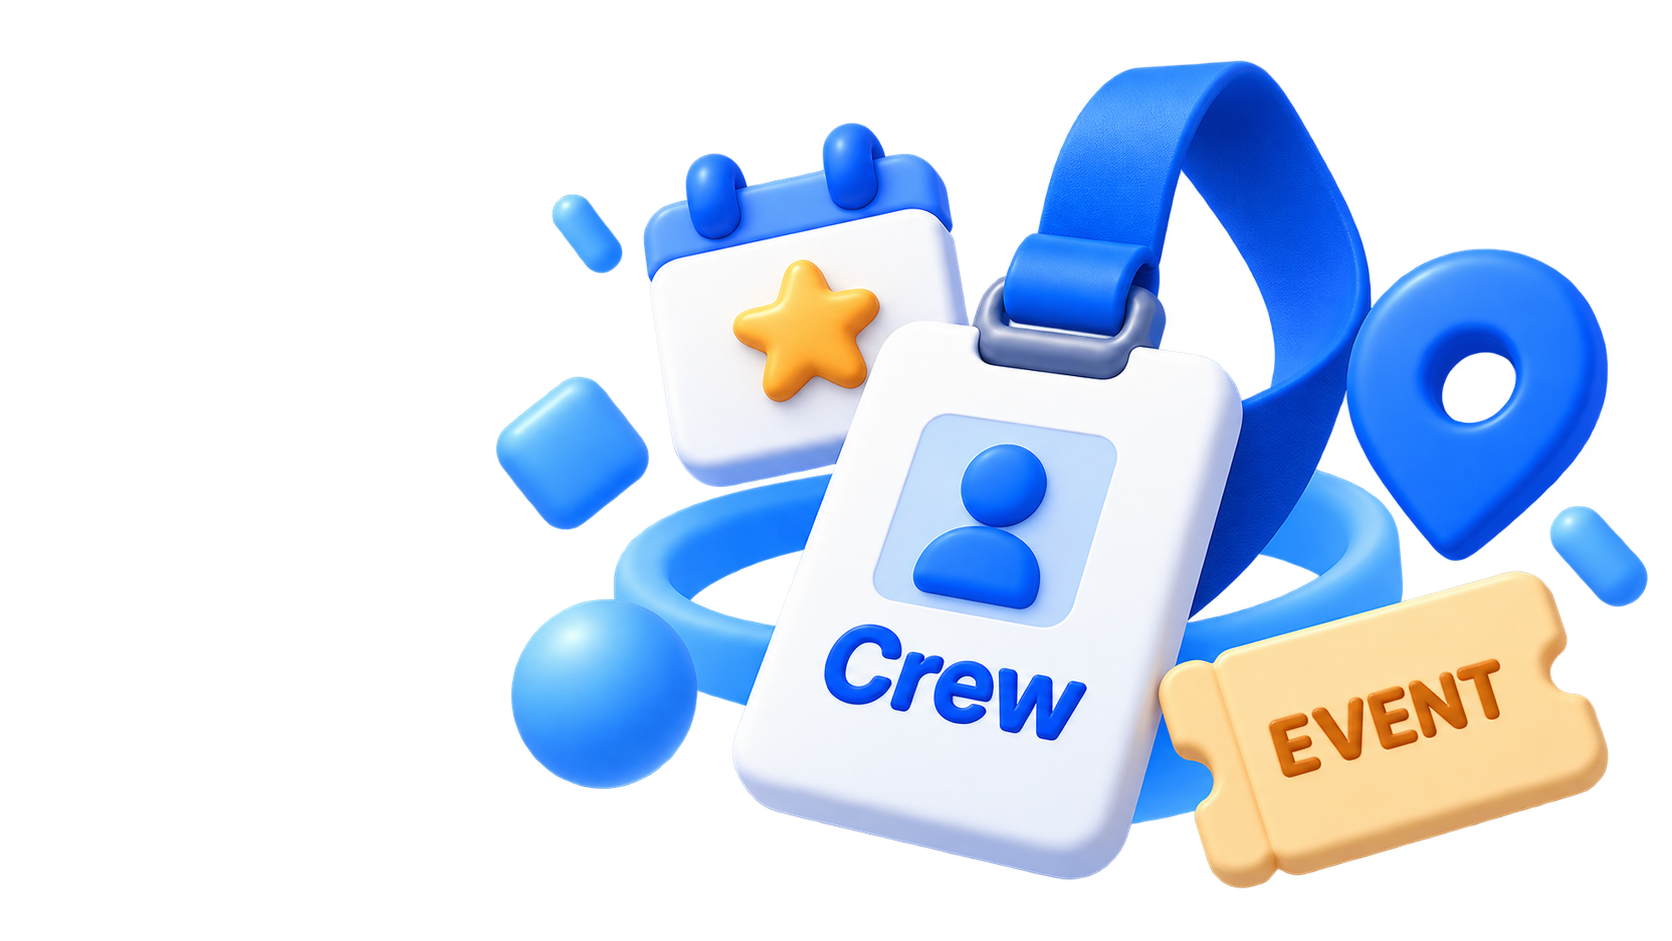
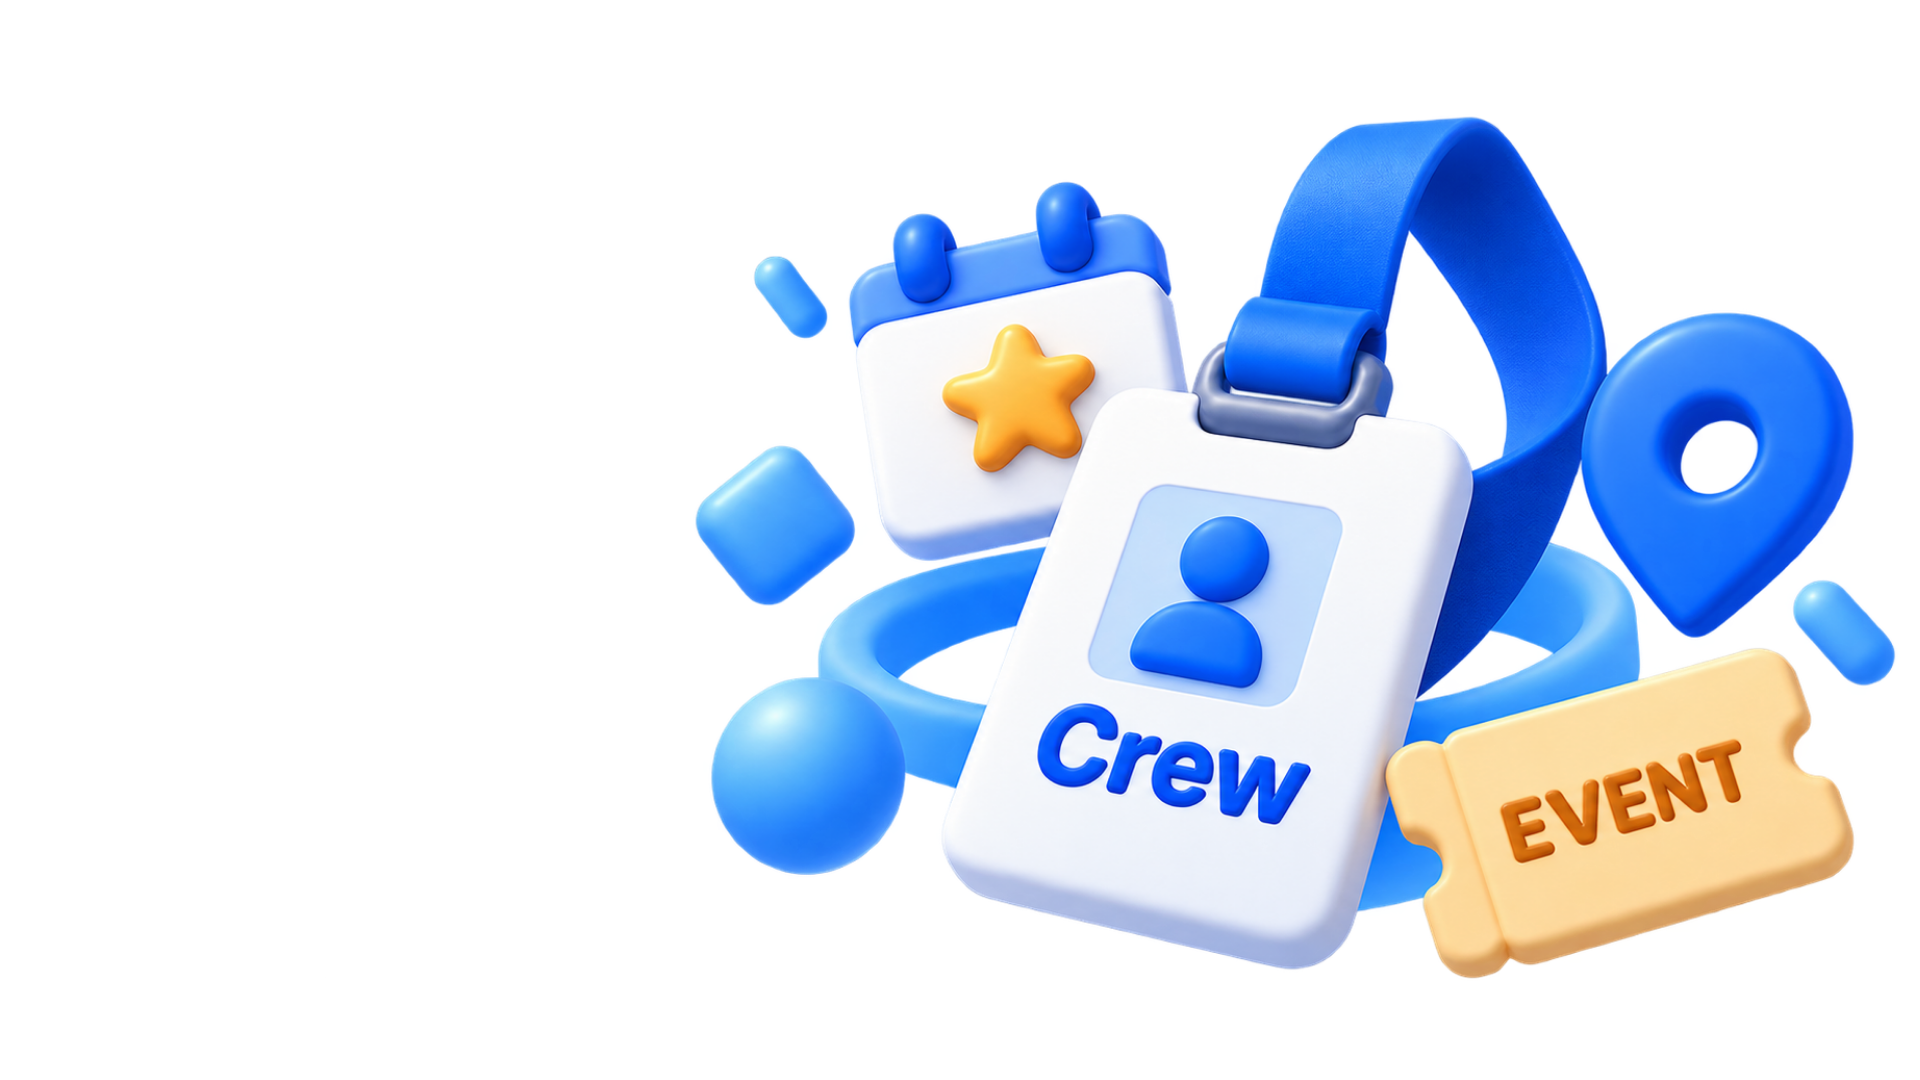
style(home): scale up hero_white asset to match text block height with leftward expansion

Changed region(s): [[0.2799, 0.0616, 0.9952, 0.9554]]

diff --git a/src/app/page.tsx b/src/app/page.tsx
@@ -261,9 +261,9 @@ export default function HomePage() {
       <section className="pt-2 sm:pt-4 pb-5 px-4 sm:px-6">
         <div className="max-w-4xl mx-auto space-y-5">
           {/* 히어로 배너: 16:9 투명 배경 에셋 (hero_white.png) 황금 분할 배치 */}
-          <section className="relative w-full overflow-hidden bg-white min-h-[220px] sm:min-h-[270px] md:min-h-[300px] flex items-center px-4 sm:px-6 lg:px-8 mb-6">
+          <section className="relative w-full overflow-hidden bg-white min-h-[200px] sm:min-h-[250px] md:min-h-[280px] flex items-center px-4 sm:px-6 lg:px-8 mb-6">
             {/* 좌측: 텍스트 영역 (여백 공간 활용) */}
-            <div className="relative z-10 max-w-[50%] py-4 text-left">
+            <div className="relative z-10 max-w-[48%] sm:max-w-[48%] md:max-w-[46%] py-4 text-left">
               <span className="text-xs sm:text-sm font-bold text-brand tracking-tight">
                 지금, 새로운 현장이 기다려요
               </span>
@@ -275,8 +275,8 @@ export default function HomePage() {
               </p>
             </div>
 
-            {/* 우측: 16:9 투명 배경 3D 일러스트 (우측 여백 확보로 잘림 원천 해결) */}
-            <div className="absolute right-2 sm:right-4 md:right-8 top-1/2 -translate-y-1/2 w-[48%] max-w-[460px] aspect-[16/9] pointer-events-none z-0">
+            {/* 우측: 16:9 투명 배경 3D 일러스트 (텍스트 높이와 1:1 매칭, 좌측/상하 확장) */}
+            <div className="absolute right-1 sm:right-3 md:right-6 top-1/2 -translate-y-1/2 h-[145px] sm:h-[185px] md:h-[220px] aspect-[16/9] w-auto pointer-events-none z-0">
               <Image
                 alt="CrewLink 3D Hero"
                 className="object-contain object-right"

diff --git a/src/app/page.test.ts b/src/app/page.test.ts
@@ -54,7 +54,8 @@ describe('Home Page Revamp Verification', () => {
     expect(pageContent).toContain('방금 올라왔어요');
     expect(pageContent).toContain('/assets/clay/hero_white.png');
     expect(pageContent).toContain('/assets/clay/coin.png');
-    expect(pageContent).toContain('right-2 sm:right-4 md:right-8');
+    expect(pageContent).toContain('right-1 sm:right-3 md:right-6');
+    expect(pageContent).toContain('h-[145px] sm:h-[185px] md:h-[220px]');
     expect(pageContent).toContain('shadow-[0_8px_24px_rgba(15,23,42,0.08)]');
     expect(pageContent).toContain('shadow-[0_6px_20px_rgba(15,23,42,0.07)]');
     expect(pageContent).toContain('border-slate-200/80');
